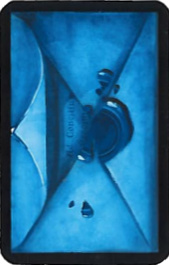
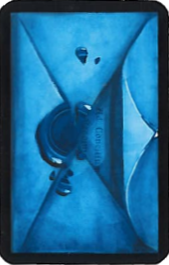
added bonus tiles to UI

diff --git a/src/main/java/it/polimi/ingsw/ps23/client/rmi/SwingUI.java b/src/main/java/it/polimi/ingsw/ps23/client/rmi/SwingUI.java
@@ -10,6 +10,7 @@ import java.awt.Point;
 import java.awt.image.BufferedImage;
 import java.io.File;
 import java.io.IOException;
+import java.util.ArrayList;
 import java.util.HashMap;
 import java.util.List;
 import java.util.Map;
@@ -63,9 +64,10 @@ class SwingUI {
 	private static final String PERMISSION_CARD_PATH = "permissionCard.png";
 	private static final String CITIES_POSITION_CSV = "citiesPosition.csv";
 	private static final String CITIES_CONNECTION_CSV = "citiesConnection.csv";
-	private static final String COUNCILS_POSITION_CSV = "councilsPosition.csv";
+	private static final String OBJECTS_POSITION_CSV = "objectsPosition.csv";
 	private static final String SANS_SERIF_FONT = "Sans serif";
 	private static final String POLITIC_CARD_PATH = "Card.png";
+	private static final String BONUS_TILE_PATH = "BonusTile.png";
 
 	private String mapPath;
 	private Map<String, Component> components;
@@ -138,7 +140,7 @@ class SwingUI {
 	}
 
 	private void loadCouncilsPositions() {
-		List<String[]> rawCouncilsPosition = new RawObject(mapPath + COUNCILS_POSITION_CSV).getRawObject();
+		List<String[]> rawCouncilsPosition = new RawObject(mapPath + OBJECTS_POSITION_CSV).getRawObject();
 		for (String[] rawCouncilPosition : rawCouncilsPosition) {
 			Point councilPoint = new Point();
 			councilPoint.x = Integer.parseInt(rawCouncilPosition[1]);
@@ -397,7 +399,7 @@ class SwingUI {
 		for (Map.Entry<String,Integer> entry : freeCouncillorsMap.entrySet()) {
 		    String color = entry.getKey();
 		    BufferedImage councillorImage = readImage(IMAGES_PATH + color + COUNCILLOR_PATH);
-			Image resizedCouncillorImage = councillorImage.getScaledInstance(28, 52, Image.SCALE_SMOOTH);
+			Image resizedCouncillorImage = councillorImage.getScaledInstance(18, 39, Image.SCALE_SMOOTH);
 			JLabel councillorLabel = new JLabel(new ImageIcon(resizedCouncillorImage));
 			councillorLabel.setBounds(0, 0, 28, 52);
 			councillorLabel.setLocation(x, y);
@@ -414,7 +416,7 @@ class SwingUI {
 			}
 			councillorsValue.setText(String.valueOf(entry.getValue()));
 			mapPanel.add(councillorsValue, 0);
-			y += 54;
+			y += 41;
 		}
 		
 	}
@@ -433,17 +435,6 @@ class SwingUI {
 		}
 		
 	}
-
-	void refreshUI(StartTurnState currentState) {
-		refreshKingPosition(currentState.getKing().getPosition().getName());
-		refreshPlayersTable(currentState.getPlayersSet());
-		refreshCouncils(currentState.getGameMap().getGroupRegionalCity(), currentState.getKing().getCouncil());
-		refreshFreeCouncillors(currentState.getFreeCouncillors());
-		refreshPermitTiles(currentState.getGameMap().getGroupRegionalCity());
-		int playerIndex = searchPlayer(currentState.getPlayersSet().getPlayers());
-		refreshPoliticCards((currentState.getPlayersSet().getPlayer(playerIndex)).getPoliticHandDeck());
-		frame.repaint();
-	}
 	
 	private int searchPlayer(List<Player> playersList) {
 		for(Player player : playersList){
@@ -453,7 +444,54 @@ class SwingUI {
 		 }
 		return -1;
 	}
+	
+	private void refreshBonusTiles(List<Region> groupRegionalCity, List<Region> groupColoredCity, Bonus currentKingTile) {
+		List<Region> allRegions = new ArrayList<>();
+		allRegions.addAll(groupRegionalCity);
+		allRegions.addAll(groupColoredCity);
+		for (Region region : allRegions) {
+			if(!(region.alreadyUsedBonusTile())){
+				drawBonusTile(region.getName(), region.getBonusTile());
+			}
+		}
+		if(currentKingTile != null) {
+			drawBonusTile("kingdom", currentKingTile);
+		}
+	}
 
+	private void drawBonusTile(String name, Bonus bonusTile) {
+		Point regionPoint = getCouncilPoint(name);
+		int x = regionPoint.x;
+		int y = regionPoint.y;
+		if(("seaside").equals(name) || ("hill").equals(name) || ("mountain").equals(name)) {
+			x += 7;
+			y -= 8;
+		}
+		if(("kingdom").equals(name)) {
+			x -= 63;
+			y -= 40;
+		}
+		BufferedImage tileImage = readImage(IMAGES_PATH + name + BONUS_TILE_PATH);
+		Image resizedTileImage = tileImage.getScaledInstance(50, 35, Image.SCALE_SMOOTH);
+		JLabel tileLabel = new JLabel(new ImageIcon(resizedTileImage));
+		tileLabel.setBounds(0, 0, 50, 35);
+		tileLabel.setLocation(x, y);
+		mapPanel.add(tileLabel, 0);
+		drawBonus(bonusTile, x + 25, y + 10, 23, 25, -5);
+	}
+
+	void refreshUI(StartTurnState currentState) {
+		refreshKingPosition(currentState.getKing().getPosition().getName());
+		refreshPlayersTable(currentState.getPlayersSet());
+		refreshCouncils(currentState.getGameMap().getGroupRegionalCity(), currentState.getKing().getCouncil());
+		refreshFreeCouncillors(currentState.getFreeCouncillors());
+		refreshPermitTiles(currentState.getGameMap().getGroupRegionalCity());
+		refreshBonusTiles(currentState.getGameMap().getGroupRegionalCity(), currentState.getGameMap().getGroupColoredCity(), currentState.getCurrentKingTile());
+		int playerIndex = searchPlayer(currentState.getPlayersSet().getPlayers());
+		refreshPoliticCards((currentState.getPlayersSet().getPlayer(playerIndex)).getPoliticHandDeck());
+		frame.repaint();
+	}
+	
 	public void loadStaticContents(StartTurnState currentState) {
 		addRewardTokens(currentState.getGameMap().getCities());
 		addNobilityTrackBonuses(currentState.getNobilityTrack());

diff --git a/src/main/java/it/polimi/ingsw/ps23/server/model/map/Region.java b/src/main/java/it/polimi/ingsw/ps23/server/model/map/Region.java
@@ -84,15 +84,23 @@ public abstract class Region implements Serializable {
 		return bonusTile;
 	}
 	
-	protected Bonus getBonusTile() {
+	/**
+	 * get the bonus tile of the specified region or colored cities group
+	 * @return the bonus tile of the specified region
+	 */
+	public Bonus getBonusTile() {
 		return bonusTile;
 	}
 	
 	public String getName() {
 		return name;
 	}
-
-	protected boolean alreadyUsedBonusTile() {
+	
+	/**
+	 * check if the bonus tile of a specified region is already acquired or not
+	 * @return the boolean variable that indicates if the bonus tile is acquired or not
+	 */
+	public boolean alreadyUsedBonusTile() {
 		return alreadyAcquiredBonusTile;
 	}
 

diff --git a/src/main/java/it/polimi/ingsw/ps23/server/Server.java b/src/main/java/it/polimi/ingsw/ps23/server/Server.java
@@ -27,7 +27,7 @@ class Server implements ServerInterface {
 	private static final int SOCKET_PORT_NUMBER = 12345;
 	private static final int RMI_PORT_NUMBER = 1099;
 	private static final String POLICY_NAME = "cofRegistry";
-	private static final int MINIMUM_PLAYERS_NUMBER = 2;
+	private static final int MINIMUM_PLAYERS_NUMBER = 1;
 	private static final int LAUNCH_TIMEOUT = 1;
 	private static final String LAUNCH_PRINT = "A new game is starting in ";
 	private static final int CONNECTION_TIMEOUT = 10000;

diff --git a/src/main/java/it/polimi/ingsw/ps23/server/model/map/GameMap.java b/src/main/java/it/polimi/ingsw/ps23/server/model/map/GameMap.java
@@ -60,6 +60,9 @@ public class GameMap implements Serializable {
 	public List<Region> getGroupRegionalCity() {
 		return groupRegionalCities;
 	}
+	public List<Region> getGroupColoredCity() {
+		return groupColoredCities;
+	}
 	
 	/**
 	 * Tries to find the region specified in the parameter.
@@ -159,5 +162,4 @@ public class GameMap implements Serializable {
 		}
 		return print + loopPrint;
 	}
-
 }

diff --git a/src/main/java/it/polimi/ingsw/ps23/server/model/state/StartTurnState.java b/src/main/java/it/polimi/ingsw/ps23/server/model/state/StartTurnState.java
@@ -66,6 +66,10 @@ public class StartTurnState extends State {
 		return king;
 	}	
 	
+	public Bonus getCurrentKingTile() {
+		return currentKingTile;		
+	}
+	
 	public FreeCouncillorsSet getFreeCouncillors() {
 		return freeCouncillors;
 	}
